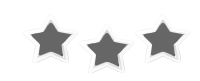
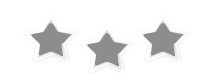
Star color tweak and gone instead of disabled on main menu
* stars are more golden

* background disappears more gone so you don't accidentally click the shop

Changed region(s): [[0.15, 0.2716, 0.36, 0.6914], [0.42, 0.3951, 0.66, 0.8148], [0.72, 0.2716, 0.93, 0.6914]]

diff --git a/src/index.html b/src/index.html
@@ -288,7 +288,7 @@
             <p id="quote-author" id="quote-author"></p>
           </div>
       </div>
-      <div id="main-menu" class="disabled">
+      <div id="main-menu" class="disabled gone">
         <div id="main-menu-top">
           <div id="intro-modal" class="disabled">
 
@@ -477,6 +477,7 @@
       }
       landing.classList.add('disabled');
       mainMenu.classList.remove('disabled');
+      mainMenu.classList.remove('gone');
       mainMenu.classList.add('enabled');
 
       // enable level selection
@@ -554,10 +555,12 @@
       if(b) {
         mainMenu.classList.remove('enabled');
         mainMenu.classList.add('disabled');
+        mainMenu.classList.add('gone');
         credits.classList.add('enabled');
         credits.classList.remove('disabled');
       } else {
         mainMenu.classList.remove('disabled');
+        mainMenu.classList.remove('gone');
         mainMenu.classList.add('enabled');
         credits.classList.remove('enabled');
         credits.classList.add('disabled');
@@ -568,10 +571,12 @@
       if(b) {
         mainMenu.classList.remove('enabled');
         mainMenu.classList.add('disabled');
+        mainMenu.classList.add('gone');
         settings.classList.add('enabled');
         settings.classList.remove('disabled');
       } else {
         mainMenu.classList.remove('disabled');
+        mainMenu.classList.remove('gone');
         mainMenu.classList.add('enabled');
         settings.classList.remove('enabled');
         settings.classList.add('disabled');
@@ -700,6 +705,7 @@
 
         mainMenu.classList.remove('enabled');
         mainMenu.classList.add('disabled');
+        mainMenu.classList.add('gone');
         if(hasPlayedBefore) {
           levelSelection.classList.add('enabled');
           levelSelection.classList.remove('disabled');
@@ -738,9 +744,11 @@
       landing.classList.add('disabled');
       if(b) {
         mainMenu.classList.remove('disabled');
+        mainMenu.classList.remove('gone');
         mainMenu.classList.add('enabled');
       } else {
         mainMenu.classList.add('disabled');
+        mainMenu.classList.add('gone');
         mainMenu.classList.remove('enabled');
       }
     }
